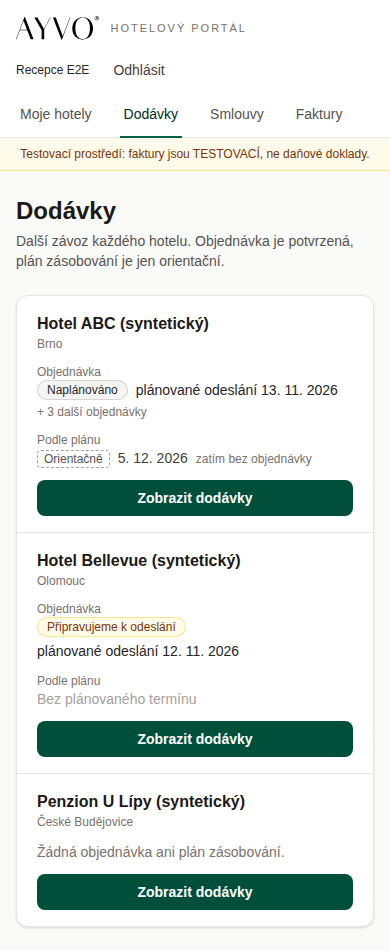
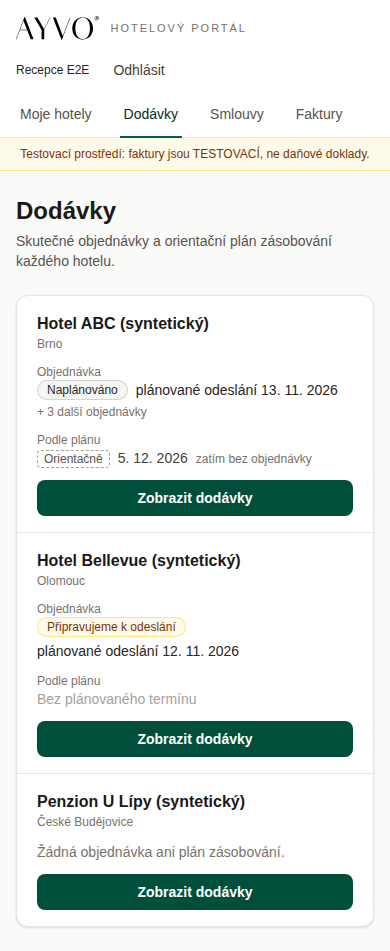
fix(portal): "Skutečné objednávky a orientační plán zásobování" — an existing order is not called confirmed (review 6802296654)
The independent review of #183: "Objednávka je potvrzená" claims more than an OPEN order proves.
The Dodávky intro and the current orders' help now say "Skutečné objednávky …" (owner's wording,
#183 comment 6802395589); the list and the detail assert that no "potvrzen…" appears. The two
Dodávky screenshots are retaken; nothing else of the approved design changes.

Checks on this commit: lint + typecheck (portal, api, types) 8/8; portal build; portal Playwright
73 passed / 5 skipped (390 + 1440); portal vitest 35/35; API boundary suites (review negatives,
deliveries, delivery truth, isolation, operational boundary, Finance A2, contracts, grants) 54/54;
PORTAL_WEB_WALK 9/9.

Changed region(s): [[0.0308, 0.244, 0.8923, 0.3049]]

diff --git a/apps/portal/e2e/deliveries.spec.ts b/apps/portal/e2e/deliveries.spec.ts
@@ -65,6 +65,8 @@ test.describe('hotel portal: deliveries, hotel-first', () => {
       .getByRole('link', { name: 'Dodávky' })
       .click();
     await expect(page.getByRole('heading', { level: 1 })).toHaveText('Dodávky');
+    // An order that exists is not presented as commercially confirmed (review 6802296654).
+    await expect(page.getByText(/potvrzen/i)).toHaveCount(0);
     const rows = page.getByTestId('deliveries-hotels').getByRole('listitem');
     await expect(rows).toHaveCount(3);
 
@@ -114,6 +116,7 @@ test.describe('hotel portal: deliveries, hotel-first', () => {
     const [abc, bellevue, lipa] = (await stubState(page)).fleetIds as [string, string, string];
     await page.goto(`/hotels/${abc}/deliveries`);
     await expect(page.getByTestId('portal-hotel-name')).toHaveText('Hotel ABC (syntetický)');
+    await expect(page.getByText(/potvrzen/i)).toHaveCount(0);
     const summary = page.getByTestId('detail-summary');
     await expect(summary.getByTestId('summary-order')).toContainText('Naplánováno');
     await expect(summary.getByTestId('summary-order')).toContainText('plánované odeslání');

diff --git a/apps/portal/src/i18n/cs.ts b/apps/portal/src/i18n/cs.ts
@@ -12,8 +12,7 @@ export const cs = {
   },
   allDeliveries: {
     title: 'Dodávky',
-    intro:
-      'Další závoz každého hotelu. Objednávka je potvrzená, plán zásobování je jen orientační.',
+    intro: 'Skutečné objednávky a orientační plán zásobování každého hotelu.',
     unavailable: 'Dodávky tohoto hotelu se teď nepodařilo načíst.',
     hotel: 'Profil hotelu',
     columns: { hotel: 'Hotel', order: 'Nejbližší objednávka', plan: 'Orientačně podle plánu' },
@@ -194,7 +193,7 @@ export const cs = {
     back: 'Všechny hotely',
     eyebrow: 'Dodávky hotelu',
     current: 'Aktuální objednávky',
-    currentHelp: 'Potvrzené objednávky a jejich stav. Datum je plánované odeslání, ne doručení.',
+    currentHelp: 'Skutečné objednávky a jejich stav. Datum je plánované odeslání, ne doručení.',
     noCurrent: 'Žádná aktuální objednávka.',
     planTitle: 'Plán zásobování · příštích 60 dní',
     planHelp:
